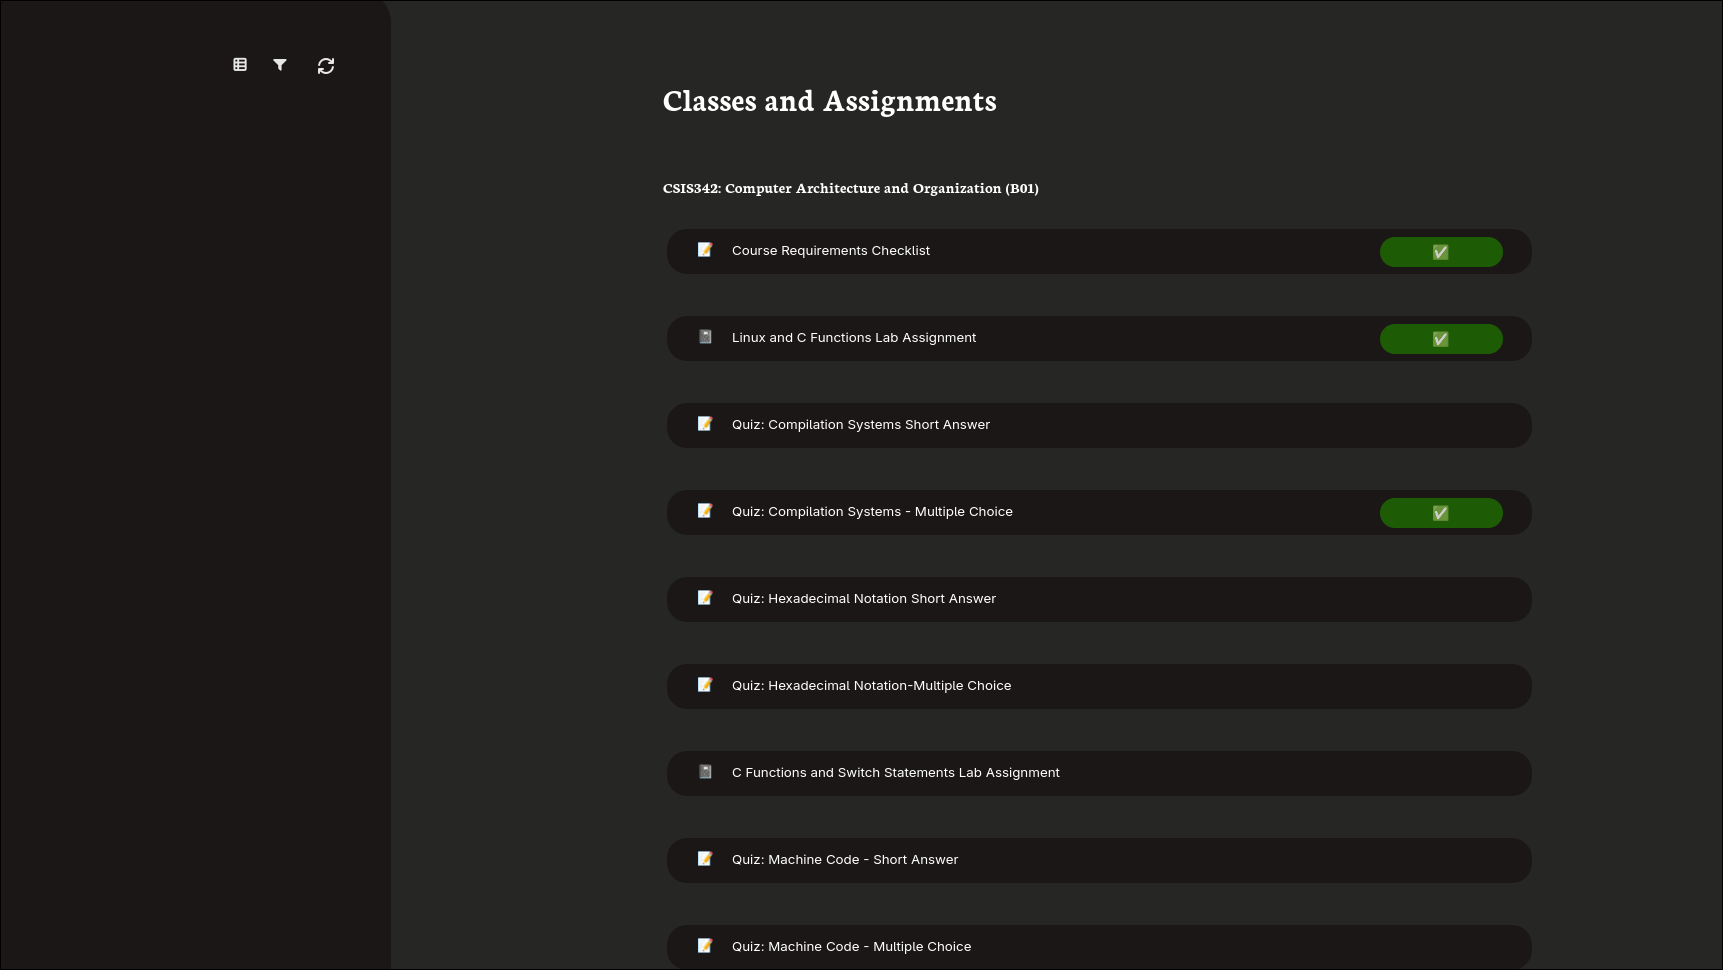
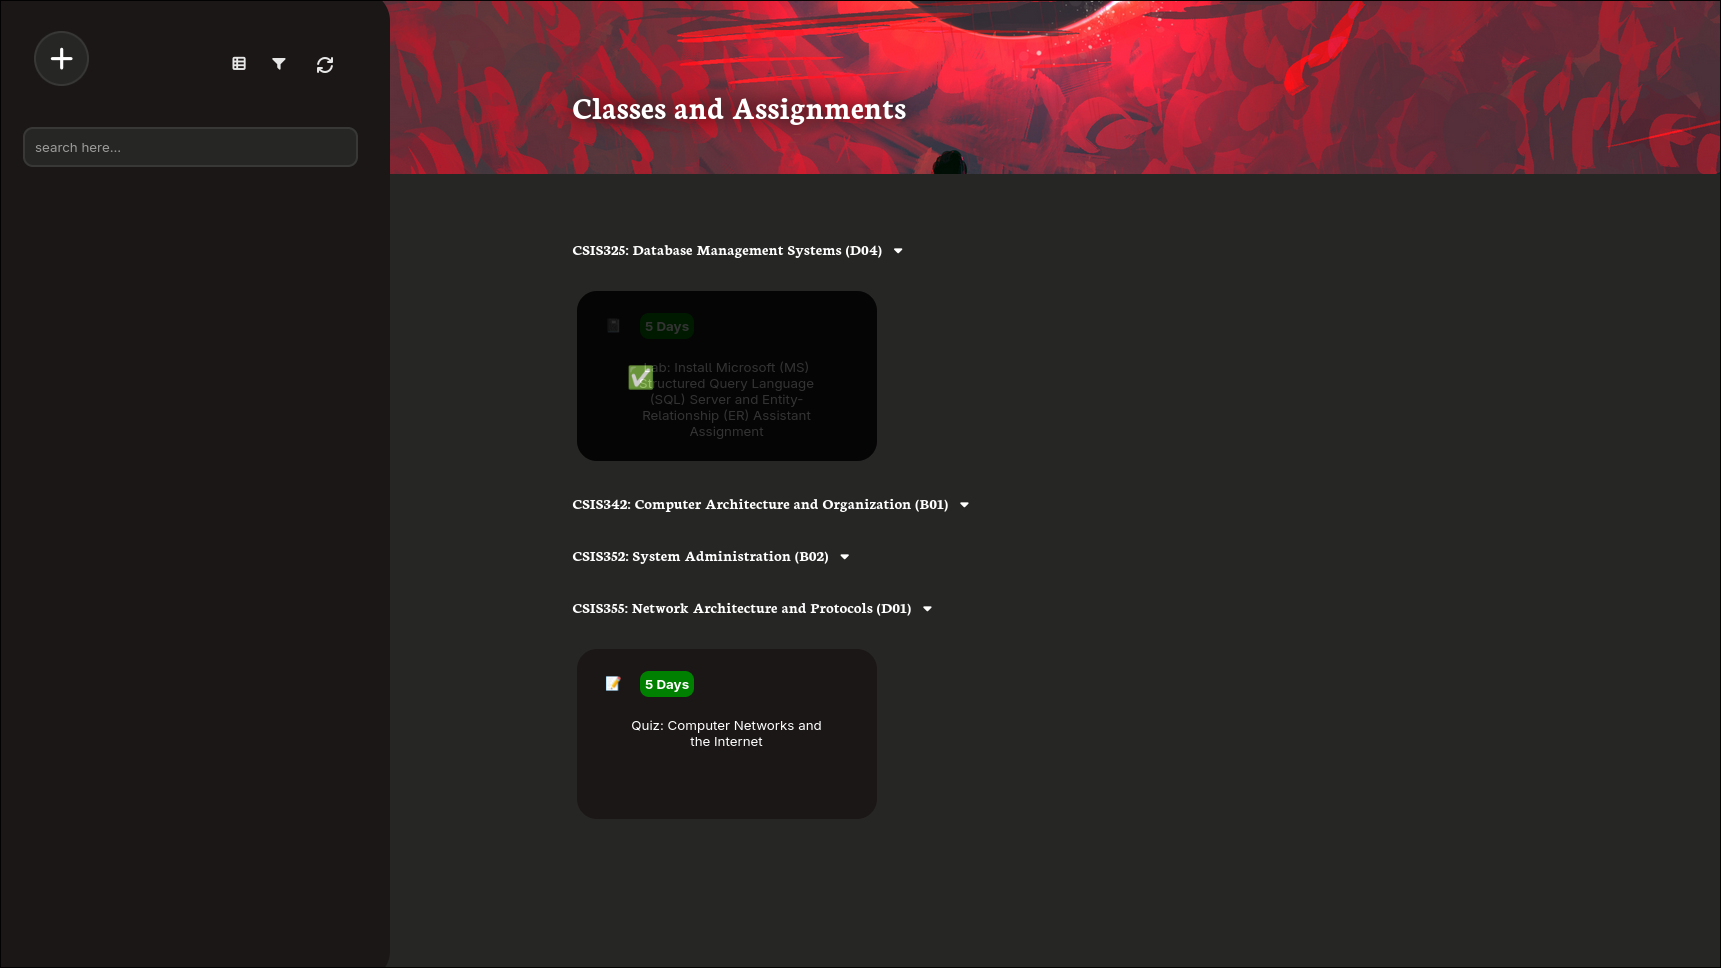
Implemented UI for adding a new assignment manually, though I'm still writing the back-end for this. Added a header photo on each page (this will be configurable, but is not yet).

diff --git a/djangoproject/main/templates/main.html b/djangoproject/main/templates/main.html
@@ -13,10 +13,36 @@
 
 </head>
 <body>
+<div class="addAssignmentContainer" id="addAssign" style="display:none; width: 100%;height: 100%;position: fixed;z-index: 998;background-color: rgba(0,0,0,0.8);margin-left: -8px;margin-top: -8px;/*! align-content: center; */">
+    <div class="addAssignment" style="position: fixed;width: 600px;background-color: #262624;z-index: 999;height: 300px;/*! text-align: center; *//*! align-content: center; */transform: translate(56vh, 31vh);border-radius: 49px;">
+  <p style="color: white;font-size: 22px;margin-left: 50px;margin-top: 46px;">Add an Assignment:</p>
+<button onclick="toggleAdd()" style="position:fixed; color:white;background: none;border: none;transform: translate(508px,-64px);"><i class="fa-solid fa-circle-xmark" style="font-size:35px;"></i></button>        <form>
+  <label for="course-select" style="margin-left: 50px;color: white;font-size: 18px;margin-right: 14px;/*! margin-top: 47px; */">Select a course: </label>
+  <select name="course" id="course-select" style="background-color: #e9e9e9;border-radius: 7px;border: none;font-family: &quot;Neuton&quot;, sans-serif;font-size: 14px;">
+    <option value="example">CSIS325: Database Management Systems (D04)</option>
+    <option value="example2">example2</option>
+  </select>
+    <br style="margin-bottom:20px;"><label for="assiName" style="margin-left: 50px;color: white;font-size: 18px;margin-right: 14px;">Name: </label>
+
+
+
+<input id="assignmentNameInput" type="text" name="assiName" style="background-color: #e9e9e9;border-radius: 7px;border: none;font-family: &quot;Neuton&quot;, sans-serif;font-size: 14px;min-width:186px;" placeholder="CSIS325: Database Manag....">
+
+    <br style="margin-bottom:20px;"><label for="duedate" style="margin-left: 50px;color: white;font-size: 18px;margin-right: 14px;">Due Date: </label>
+    <input type="date" id="assignmentDateInput" name="duedate" style="background-color: #e9e9e9;border-radius: 7px;border: none;font-family: ">
+    <br style="margin-bottom:20px;/*! background-color: white; *//*! border: none; */">
+  <input type="submit" style="margin-left: 50px;background-color: white;border: none;border-radius: 15px;padding: 10px;font-family: &quot;Neuton&quot;, sans-serif;font-weight: 600;">
+
+    </form>
+
+
+
+</div>
+</div>
 <div class="container">
     <div class="nav">
         {% csrf_token %}
-        <button class="add-stuff">
+        <button class="add-stuff" onclick="toggleAdd()">
             <i class="fa-solid fa-plus" style="font-size: 25px;"></i>
         </button>
             <button style="background:none; border:none;"
@@ -40,7 +66,8 @@
     </div>
     <div class="courseAssign" id="courseAssign">
         {% load static %}
-        <h1 style="color:white;">Classes and Assignments</h1>
+        <img style="object-fit: cover;max-height: 225px;width: 1437px;position: absolute;transform: translate(-284px,-107px);z-index: -999;" src="https://images.wallpapersden.com/image/download/just-people-hd-minimal-cool_bWlnZmqUmZqaraWkpJRnamtlrWZpaWU.jpg">
+        <h1 style="color:white;margin-top: 30px;margin-bottom: 76px;text-shadow: 0px 0px 20px black;">Classes and Assignments</h1>
         <br>
         {% for course in courses %}
             <p style="color:white;">{{ course.name }}
@@ -137,6 +164,11 @@
     </div>
 </div>
 <script>
+    function toggleAdd() {
+        const win = document.getElementById("addAssign");
+        win.classList.toggle("show");
+    }
+
     let showAssignments = true;
 
     function courseList(course) {

diff --git a/djangoproject/static/main.css b/djangoproject/static/main.css
@@ -16,8 +16,8 @@ body {
     transform: translate(-35px,-1px);
 }
 .courseAssign {
-    margin-top: 50px;
-    margin-left: 120px;
+  margin-top: 50px;
+  margin-left: -61px;
 }
 .container div.nav {
     width:400px;
@@ -28,6 +28,7 @@ body {
 .assignmentContainer {
     display: flex;
     margin-left: -15px;
+    max-width: 901px;
 }
 .assignments {
     display: grid;
@@ -139,4 +140,16 @@ body {
     padding: 5px;
     border-radius: 9px;
     font-weight: bold;
+}
+
+.addAssignmentContainer.show {
+    display: block !important;
+    animation: popup 0.5s forwards;
+}
+@keyframes popup {
+    0% {opacity: 0%;}
+    100% {opacity: 100%;}
+}
+@keyframes fade {
+    100% {}
 }

diff --git a/djangoproject/main/templates/filter/false.html b/djangoproject/main/templates/filter/false.html
@@ -1,5 +1,6 @@
 {% load isDue %}
     {% load static %}
+    <img style="object-fit: cover;max-height: 225px;width: 1437px;position: absolute;transform: translate(-284px,-107px);z-index: -999;" src="https://images.wallpapersden.com/image/download/just-people-hd-minimal-cool_bWlnZmqUmZqaraWkpJRnamtlrWZpaWU.jpg">
     <h1 style="color:white;">Classes and Assignments</h1>
     <br>
 {% for course in courses %}

diff --git a/djangoproject/main/templates/filter/true.html b/djangoproject/main/templates/filter/true.html
@@ -1,5 +1,6 @@
 {% load isDue %}
 {% load static %}
+<img style="object-fit: cover;max-height: 225px;width: 1437px;position: absolute;transform: translate(-284px,-107px);z-index: -999;" src="https://images.wallpapersden.com/image/download/just-people-hd-minimal-cool_bWlnZmqUmZqaraWkpJRnamtlrWZpaWU.jpg">
 <h1 style="color:white;">Due soon (<7 days)</h1>
 <br>
     {% for course in courses %}
